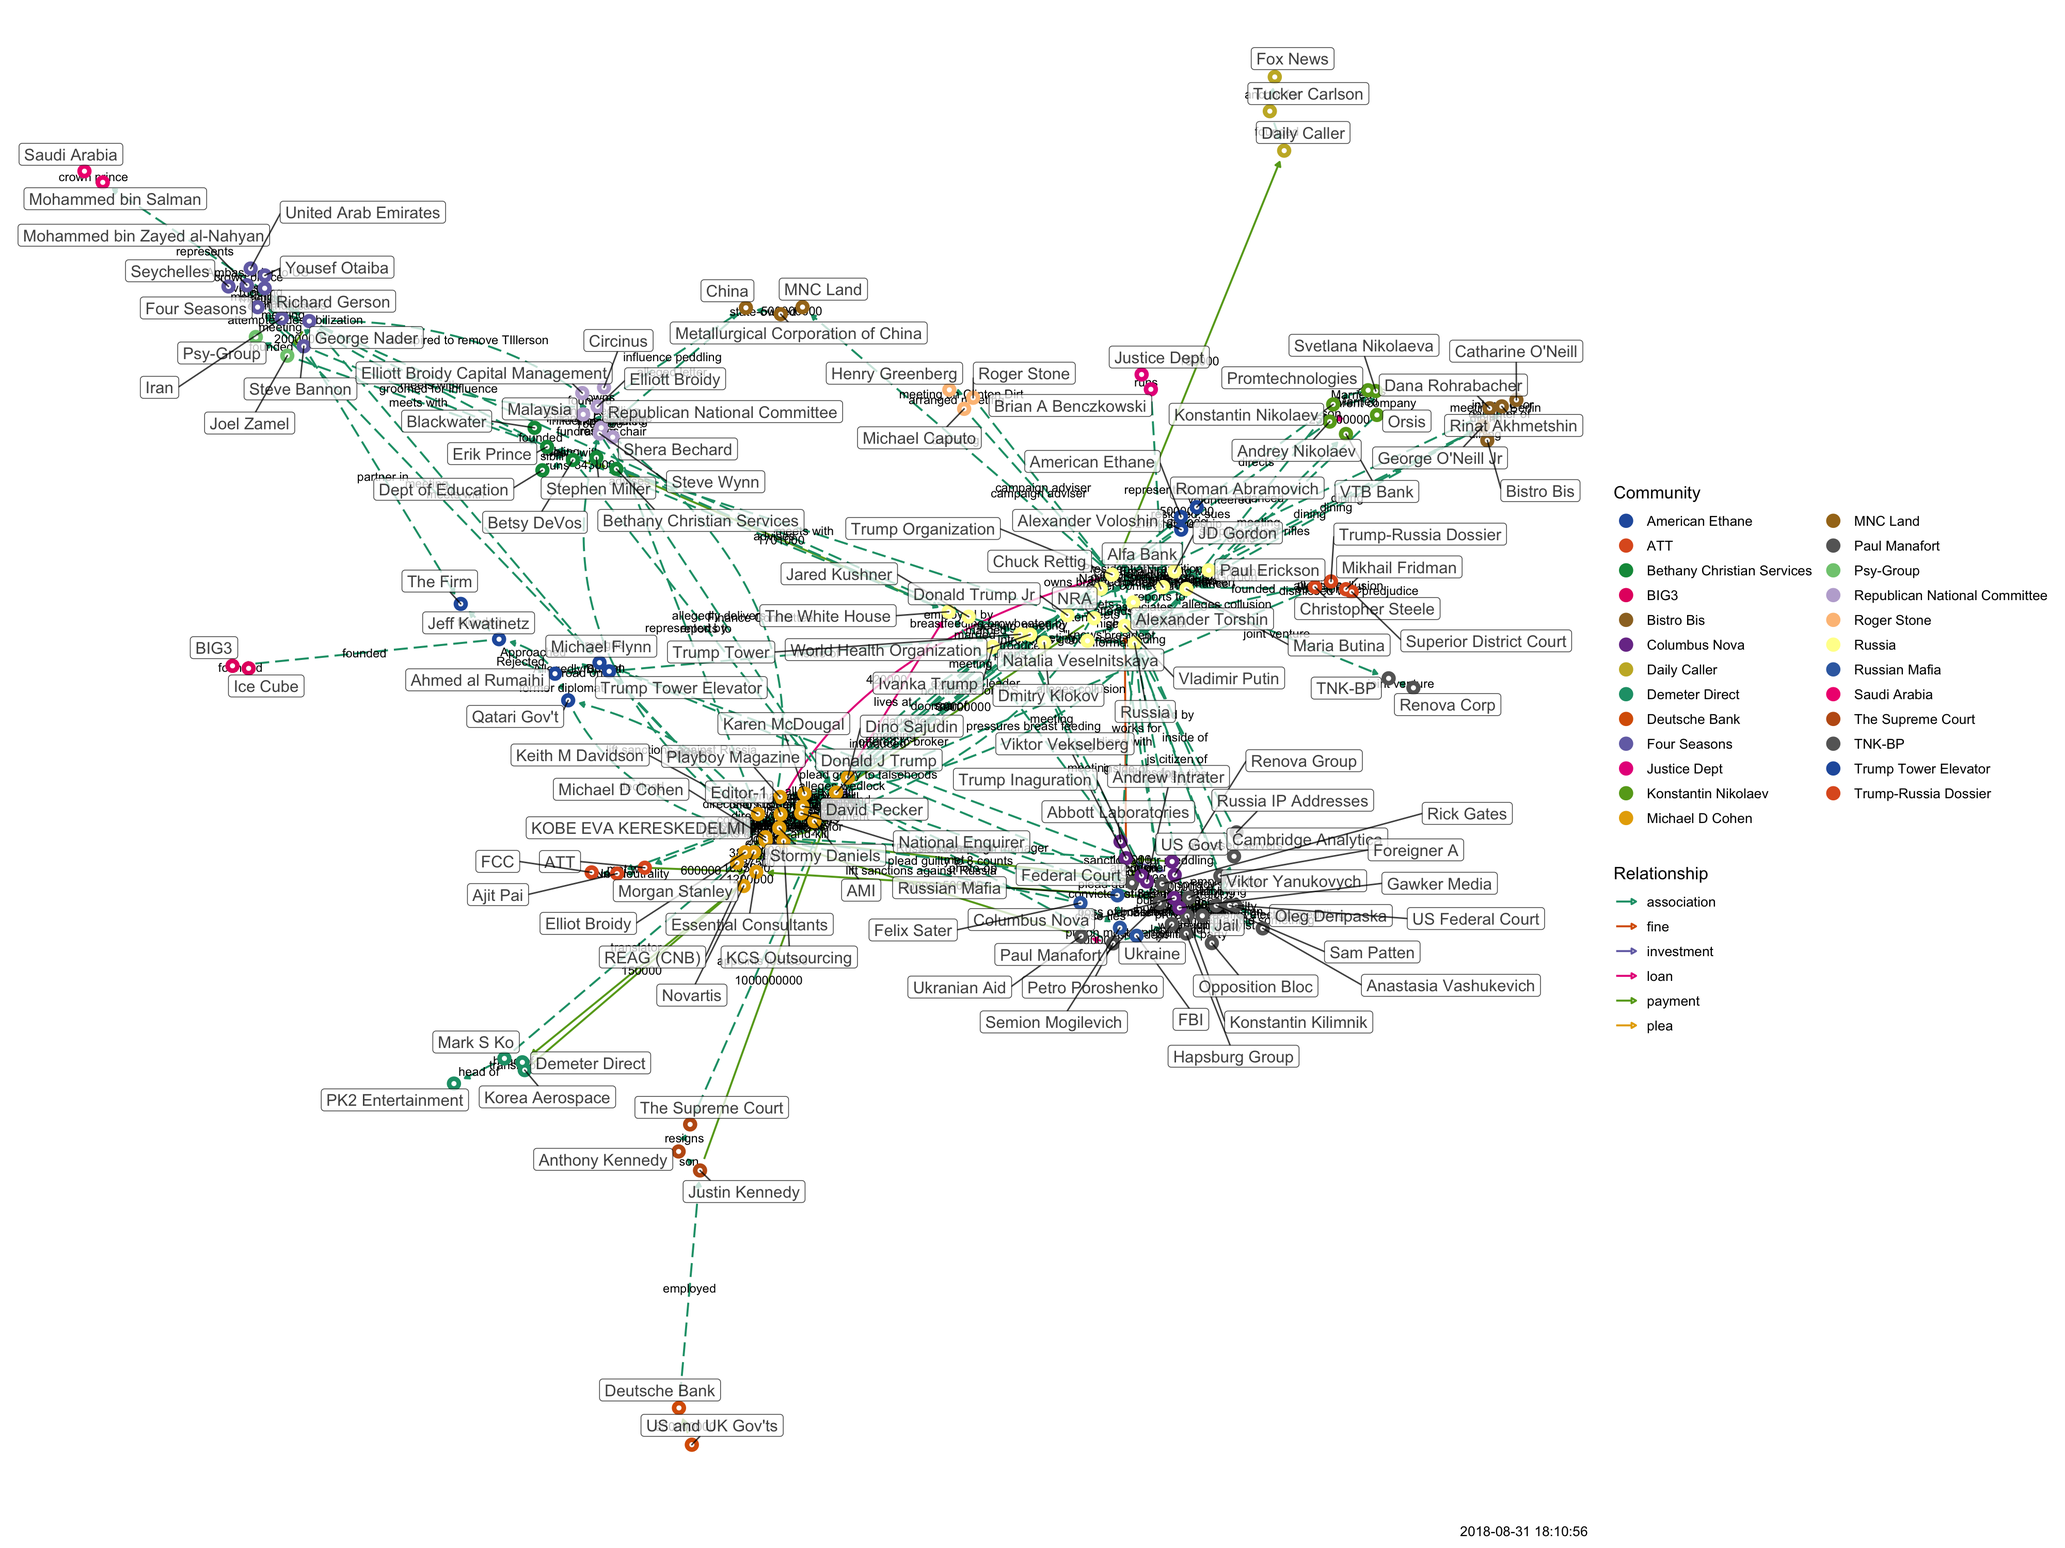
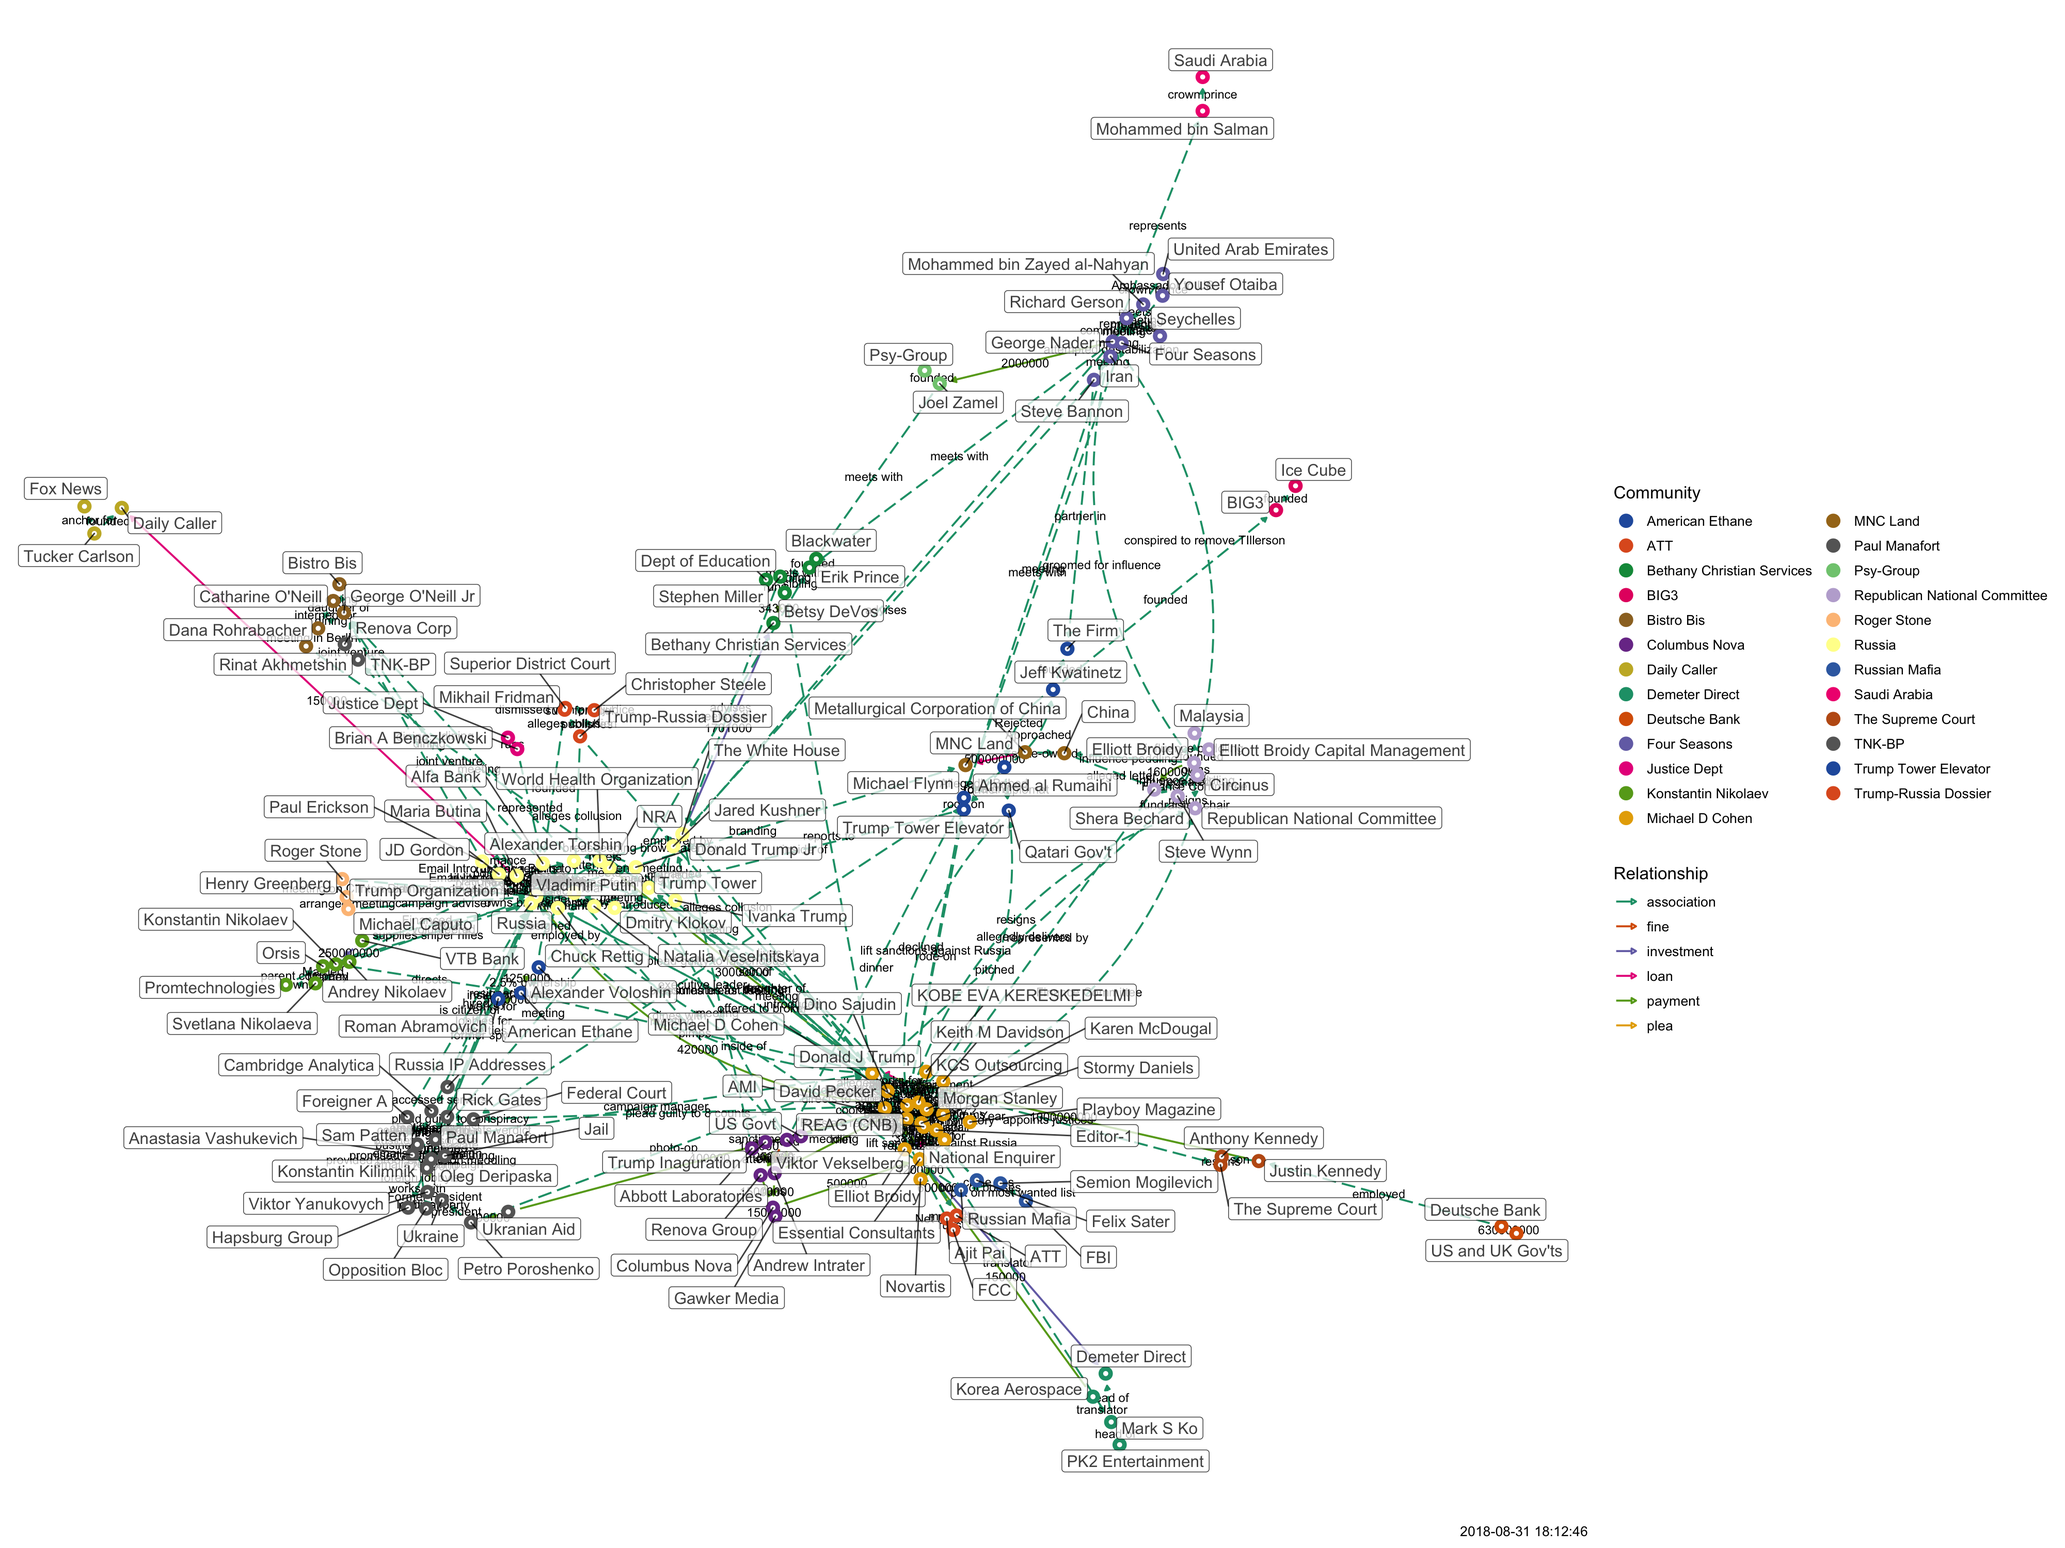
updated

diff --git a/docs/tangled-d3.html b/docs/tangled-d3.html
@@ -1143,11 +1143,11 @@ return function(){for(var n=0,e=0;e<t;++e)n+=Math.random();return n}},um=functio
 </head>
 <body style="background-color: white;">
 <div id="htmlwidget_container">
-<div id="htmlwidget-960d5fedc73d73c93c30" class="forceNetwork html-widget" style="width:960px;height:500px;">
+<div id="htmlwidget-10fe5aaa14eadc9a0b8a" class="forceNetwork html-widget" style="width:960px;height:500px;">
 
 </div>
 </div>
-<script type="application/json" data-for="htmlwidget-960d5fedc73d73c93c30">{"x":{"links":{"source":[0,1,2,2,3,4,5,6,6,7,8,9,9,9,10,11,12,13,14,15,16,17,18,19,20,21,21,22,23,24,25,25,26,27,28,29,16,3,3,30,3,30,30,3,31,16,32,30,8,8,8,16,33,33,32,16,16,34,34,34,34,33,16,35,36,36,37,38,37,37,39,36,36,40,40,40,4,39,8,10,10,10,41,41,42,42,16,43,44,44,10,45,46,47,10,10,48,49,47,50,46,10,10,45,47,5,5,5,25,15,20,20,16,30,30,51,52,52,52,52,10,49,35,39,53,53,42,42,54,54,32,32,16,55,56,57,56,58,59,58,56,58,58,45,41,60,61,61,28,19,58,56,33,62,16,63,11,64,33,0,65,66,33,1,1,67,23,68,68,59,69,25,70,71,71,72,33,72,72,73,72,74,73,45,45,73,73,73,72,75,74,76,76,60,77,8,78,55,79,79,79,74,74,79,80,80,81,81,82,83,83,80,84,66,85,86,85,87,8,8,8,88,88,88,89,90,19,30,33,91,92,92,92,33,93,94,95,16,16,96,93,2,16,33,93,33,93,96,2,97,97,32,94,96,98,98,99,100,101,98,16,102,103,69,102,104,105,105,105,106,107,58,107,108,107,109,109,107,92,35,16,107],"target":[110,67,97,93,110,9,111,9,112,21,78,113,114,32,46,33,16,16,9,115,7,9,33,58,26,9,32,6,67,111,116,16,16,64,58,80,9,6,16,22,30,3,110,110,30,33,55,59,117,118,119,114,24,32,33,25,117,113,120,16,14,25,51,51,51,37,36,121,122,121,122,43,35,4,33,123,40,24,10,8,39,41,24,42,41,33,43,16,116,124,47,47,47,125,49,48,126,127,50,24,128,35,129,33,5,47,130,33,115,89,33,131,132,132,16,132,133,49,10,134,134,134,134,134,134,127,16,54,16,59,55,16,55,16,57,131,58,66,66,33,66,135,132,132,132,132,132,66,131,66,56,19,62,25,117,136,63,11,136,24,24,65,67,59,59,1,67,69,137,69,25,69,25,70,66,33,72,66,73,66,74,72,45,73,18,18,66,77,77,77,77,77,75,75,138,78,55,16,72,25,25,72,79,72,72,81,80,84,66,80,25,67,82,29,86,87,25,25,89,139,88,117,33,117,88,19,90,35,4,58,58,25,58,16,94,95,2,94,96,2,2,16,2,16,33,93,140,33,97,33,132,94,16,16,33,100,100,101,66,16,35,69,141,141,104,105,33,59,102,102,58,107,108,131,109,107,66,70,91,91,91,142],"colour":["red","blue","red","red","red","red","red","red","blue","red","red","red","red","red","red","blue","red","red","red","blue","red","red","blue","blue","red","red","red","blue","blue","red","red","red","red","blue","red","blue","blue","blue","blue","blue","blue","blue","blue","blue","blue","blue","blue","blue","blue","blue","blue","blue","blue","blue","blue","blue","blue","blue","blue","blue","blue","blue","blue","blue","blue","blue","blue","blue","blue","blue","blue","blue","blue","blue","blue","blue","blue","blue","blue","blue","blue","blue","blue","blue","blue","blue","blue","blue","blue","blue","blue","blue","blue","blue","blue","blue","blue","blue","blue","blue","blue","blue","blue","blue","blue","blue","blue","blue","blue","blue","blue","blue","blue","blue","blue","blue","blue","blue","blue","blue","blue","blue","blue","blue","blue","blue","blue","blue","blue","blue","blue","blue","blue","blue","blue","blue","blue","blue","blue","blue","blue","blue","blue","blue","blue","blue","blue","blue","blue","blue","blue","blue","blue","blue","blue","blue","blue","blue","blue","blue","blue","blue","blue","blue","blue","blue","blue","blue","blue","blue","blue","blue","blue","blue","blue","blue","blue","blue","blue","blue","blue","blue","blue","blue","blue","blue","blue","blue","blue","blue","blue","blue","blue","blue","blue","blue","blue","blue","blue","blue","blue","blue","blue","blue","blue","blue","blue","blue","blue","blue","blue","blue","blue","blue","blue","blue","blue","blue","blue","blue","blue","blue","blue","blue","blue","blue","blue","blue","blue","blue","blue","blue","blue","blue","blue","blue","blue","blue","blue","blue","blue","blue","blue","blue","blue","blue","blue","blue","blue","blue","blue","blue","blue","blue","blue","blue","blue","blue","blue","blue","blue","blue","blue","blue","blue","blue","blue","blue","blue","blue","blue","blue","blue","blue","blue","blue","blue","blue","blue","blue","blue","blue"]},"nodes":{"name":["Abbott Laboratories","Alexander Voloshin","AMI","Andrew Intrater","ATT","Betsy DeVos","Columbus Nova","Elliot Broidy","Elliott Broidy","Essential Consultants","George Nader","Justin Kennedy","KCS Outsourcing","KOBE EVA KERESKEDELMI","Korea Aerospace","Metallurgical Corporation of China","Michael D Cohen","Novartis","NRA","Oleg Deripaska","Petro Poroshenko","REAG (CNB)","Renova Group","Roman Abramovich","The White House","Trump Organization","Ukranian Aid","US and UK Gov'ts","Viktor Yanukovych","VTB Bank","Viktor Vekselberg","US Govt","Stormy Daniels","Donald J Trump","Mark S Ko","Michael Flynn","Ahmed al Rumaihi","Jeff Kwatinetz","Ice Cube","Steve Bannon","Ajit Pai","Jared Kushner","Ivanka Trump","Qatari Gov't","Tucker Carlson","Donald Trump Jr","Joel Zamel","Erik Prince","Mohammed bin Salman","Mohammed bin Zayed al-Nahyan","Stephen Miller","Trump Tower Elevator","Richard Gerson","Yousef Otaiba","Dmitry Klokov","Keith M Davidson","Konstantin Kilimnik","Hapsburg Group","Paul Manafort","Vladimir Putin","Rinat Akhmetshin","Natalia Veselnitskaya","Chuck Rettig","Anthony Kennedy","Deutsche Bank","World Health Organization","Russia","American Ethane","Brian A Benczkowski","Alfa Bank","Cambridge Analytica","Russia IP Addresses","Maria Butina","Alexander Torshin","Paul Erickson","Dana Rohrabacher","Catharine O'Neill","George O'Neill Jr","Shera Bechard","JD Gordon","Konstantin Nikolaev","Svetlana Nikolaeva","Orsis","Andrey Nikolaev","Promtechnologies","Michael Caputo","Henry Greenberg","Roger Stone","Steve Wynn","China","Anastasia Vashukevich","Federal Court","Rick Gates","Karen McDougal","Editor-1","National Enquirer","David Pecker","Dino Sajudin","Felix Sater","FBI","Semion Mogilevich","Russian Mafia","Mikhail Fridman","Renova Corp","Christopher Steele","Trump-Russia Dossier","Superior District Court","Sam Patten","Opposition Bloc","Foreigner A","Trump Inaguration","Bethany Christian Services","Gawker Media","Demeter Direct","Morgan Stanley","MNC Land","Daily Caller","Republican National Committee","Elliott Broidy Capital Management","Circinus","PK2 Entertainment","BIG3","The Firm","FCC","Fox News","Blackwater","Saudi Arabia","United Arab Emirates","Psy-Group","Iran","Dept of Education","Ukraine","Trump Tower","Seychelles","Four Seasons","Jail","The Supreme Court","Justice Dept","Bistro Bis","Malaysia","Playboy Magazine","TNK-BP","US Federal Court"],"group":["5","18","2","5","15","9","5","2","6","2","4","16","2","2","12","17","2","2","3","1","1","2","5","18","3","3","1","25","1","7","5","5","2","2","12","8","8","8","24","4","15","3","3","8","14","3","20","9","21","4","9","8","4","4","3","2","1","1","1","3","10","3","3","16","25","3","3","18","22","3","1","1","3","3","3","10","10","10","6","3","7","7","7","7","7","19","19","19","6","17","1","1","1","2","2","2","2","2","11","11","11","11","13","23","13","13","13","1","1","1","5","9","5","12","2","17","14","6","6","6","12","24","8","15","14","9","21","4","20","4","9","1","3","4","4","1","16","22","10","6","2","23","1"]},"options":{"NodeID":"name","Group":"group","colourScale":"d3.scaleOrdinal(d3.schemeCategory20);","fontSize":20,"fontFamily":"serif","clickTextSize":50,"linkDistance":50,"linkWidth":"function(d) { return Math.sqrt(d.value); }","charge":-100,"opacity":1,"zoom":true,"legend":false,"arrows":false,"nodesize":false,"radiusCalculation":" Math.sqrt(d.nodesize)+6","bounded":false,"opacityNoHover":1,"clickAction":null}},"evals":[],"jsHooks":[]}</script>
-<script type="application/htmlwidget-sizing" data-for="htmlwidget-960d5fedc73d73c93c30">{"viewer":{"width":450,"height":350,"padding":10,"fill":true},"browser":{"width":960,"height":500,"padding":10,"fill":true}}</script>
+<script type="application/json" data-for="htmlwidget-10fe5aaa14eadc9a0b8a">{"x":{"links":{"source":[0,1,2,2,3,4,5,6,6,7,8,9,9,9,10,11,12,13,14,15,16,17,18,19,20,21,21,22,23,24,25,25,26,27,28,29,16,3,3,30,3,30,30,3,31,16,32,30,8,8,8,16,33,33,32,16,16,34,34,34,34,33,16,35,36,36,37,38,37,37,39,36,36,40,40,40,4,39,8,10,10,10,41,41,42,42,16,43,44,44,10,45,46,47,10,10,48,49,47,50,46,10,10,45,47,5,5,5,25,15,20,20,16,30,30,51,52,52,52,52,10,49,35,39,53,53,42,42,54,54,32,32,16,55,56,57,56,58,59,58,56,58,58,45,41,60,61,61,28,19,58,56,33,62,16,63,11,64,33,0,65,66,33,1,1,67,23,68,68,59,69,25,70,71,71,72,33,72,72,73,72,74,73,45,45,73,73,73,72,75,74,76,76,60,77,8,78,55,79,79,79,74,74,79,80,80,81,81,82,83,83,80,84,66,85,86,85,87,8,8,8,88,88,88,89,90,19,30,33,91,92,92,92,33,93,94,95,16,16,96,93,2,16,33,93,33,93,96,2,97,97,32,94,96,98,98,99,100,101,98,16,102,103,69,102,104,105,105,105,106,107,58,107,108,107,109,109,107,92,35,16,107],"target":[110,67,97,93,110,9,111,9,112,21,78,113,114,32,46,33,16,16,9,115,7,9,33,58,26,9,32,6,67,111,116,16,16,64,58,80,9,6,16,22,30,3,110,110,30,33,55,59,117,118,119,114,24,32,33,25,117,113,120,16,14,25,51,51,51,37,36,121,122,121,122,43,35,4,33,123,40,24,10,8,39,41,24,42,41,33,43,16,116,124,47,47,47,125,49,48,126,127,50,24,128,35,129,33,5,47,130,33,115,89,33,131,132,132,16,132,133,49,10,134,134,134,134,134,134,127,16,54,16,59,55,16,55,16,57,131,58,66,66,33,66,135,132,132,132,132,132,66,131,66,56,19,62,25,117,136,63,11,136,24,24,65,67,59,59,1,67,69,137,69,25,69,25,70,66,33,72,66,73,66,74,72,45,73,18,18,66,77,77,77,77,77,75,75,138,78,55,16,72,25,25,72,79,72,72,81,80,84,66,80,25,67,82,29,86,87,25,25,89,139,88,117,33,117,88,19,90,35,4,58,58,25,58,16,94,95,2,94,96,2,2,16,2,16,33,93,140,33,97,33,132,94,16,16,33,100,100,101,66,16,35,69,141,141,104,105,33,59,102,102,58,107,108,131,109,107,66,70,91,91,91,91],"colour":["red","blue","red","red","red","red","red","red","blue","red","red","red","red","red","red","blue","red","red","red","blue","red","red","blue","blue","red","red","red","blue","blue","red","red","red","red","blue","red","blue","blue","blue","blue","blue","blue","blue","blue","blue","blue","blue","blue","blue","blue","blue","blue","blue","blue","blue","blue","blue","blue","blue","blue","blue","blue","blue","blue","blue","blue","blue","blue","blue","blue","blue","blue","blue","blue","blue","blue","blue","blue","blue","blue","blue","blue","blue","blue","blue","blue","blue","blue","blue","blue","blue","blue","blue","blue","blue","blue","blue","blue","blue","blue","blue","blue","blue","blue","blue","blue","blue","blue","blue","blue","blue","blue","blue","blue","blue","blue","blue","blue","blue","blue","blue","blue","blue","blue","blue","blue","blue","blue","blue","blue","blue","blue","blue","blue","blue","blue","blue","blue","blue","blue","blue","blue","blue","blue","blue","blue","blue","blue","blue","blue","blue","blue","blue","blue","blue","blue","blue","blue","blue","blue","blue","blue","blue","blue","blue","blue","blue","blue","blue","blue","blue","blue","blue","blue","blue","blue","blue","blue","blue","blue","blue","blue","blue","blue","blue","blue","blue","blue","blue","blue","blue","blue","blue","blue","blue","blue","blue","blue","blue","blue","blue","blue","blue","blue","blue","blue","blue","blue","blue","blue","blue","blue","blue","blue","blue","blue","blue","blue","blue","blue","blue","blue","blue","blue","blue","blue","blue","blue","blue","blue","blue","blue","blue","blue","blue","blue","blue","blue","blue","blue","blue","blue","blue","blue","blue","blue","blue","blue","blue","blue","blue","blue","blue","blue","blue","blue","blue","blue","blue","blue","blue","blue","blue","blue","blue","blue","blue","blue","blue","blue","blue","blue","blue","blue","blue","blue","blue","blue","blue","blue","blue","blue","blue"]},"nodes":{"name":["Abbott Laboratories","Alexander Voloshin","AMI","Andrew Intrater","ATT","Betsy DeVos","Columbus Nova","Elliot Broidy","Elliott Broidy","Essential Consultants","George Nader","Justin Kennedy","KCS Outsourcing","KOBE EVA KERESKEDELMI","Korea Aerospace","Metallurgical Corporation of China","Michael D Cohen","Novartis","NRA","Oleg Deripaska","Petro Poroshenko","REAG (CNB)","Renova Group","Roman Abramovich","The White House","Trump Organization","Ukranian Aid","US and UK Gov'ts","Viktor Yanukovych","VTB Bank","Viktor Vekselberg","US Govt","Stormy Daniels","Donald J Trump","Mark S Ko","Michael Flynn","Ahmed al Rumaihi","Jeff Kwatinetz","Ice Cube","Steve Bannon","Ajit Pai","Jared Kushner","Ivanka Trump","Qatari Gov't","Tucker Carlson","Donald Trump Jr","Joel Zamel","Erik Prince","Mohammed bin Salman","Mohammed bin Zayed al-Nahyan","Stephen Miller","Trump Tower Elevator","Richard Gerson","Yousef Otaiba","Dmitry Klokov","Keith M Davidson","Konstantin Kilimnik","Hapsburg Group","Paul Manafort","Vladimir Putin","Rinat Akhmetshin","Natalia Veselnitskaya","Chuck Rettig","Anthony Kennedy","Deutsche Bank","World Health Organization","Russia","American Ethane","Brian A Benczkowski","Alfa Bank","Cambridge Analytica","Russia IP Addresses","Maria Butina","Alexander Torshin","Paul Erickson","Dana Rohrabacher","Catharine O'Neill","George O'Neill Jr","Shera Bechard","JD Gordon","Konstantin Nikolaev","Svetlana Nikolaeva","Orsis","Andrey Nikolaev","Promtechnologies","Michael Caputo","Henry Greenberg","Roger Stone","Steve Wynn","China","Anastasia Vashukevich","Federal Court","Rick Gates","Karen McDougal","Editor-1","National Enquirer","David Pecker","Dino Sajudin","Felix Sater","FBI","Semion Mogilevich","Russian Mafia","Mikhail Fridman","Renova Corp","Christopher Steele","Trump-Russia Dossier","Superior District Court","Sam Patten","Opposition Bloc","Foreigner A","Trump Inaguration","Bethany Christian Services","Gawker Media","Demeter Direct","Morgan Stanley","MNC Land","Daily Caller","Republican National Committee","Elliott Broidy Capital Management","Circinus","PK2 Entertainment","BIG3","The Firm","FCC","Fox News","Blackwater","Saudi Arabia","United Arab Emirates","Psy-Group","Iran","Dept of Education","Ukraine","Trump Tower","Seychelles","Four Seasons","Jail","The Supreme Court","Justice Dept","Bistro Bis","Malaysia","Playboy Magazine","TNK-BP"],"group":["5","18","1","5","15","9","5","1","6","1","4","16","1","1","12","17","1","1","2","3","3","1","5","18","2","2","3","25","3","7","5","5","1","1","12","8","8","8","24","4","15","2","2","8","14","2","20","9","21","4","9","8","4","4","2","1","3","3","3","2","10","2","2","16","25","2","2","18","22","2","3","3","2","2","2","10","10","10","6","2","7","7","7","7","7","19","19","19","6","17","3","3","3","1","1","1","1","1","11","11","11","11","13","23","13","13","13","3","3","3","5","9","5","12","1","17","14","6","6","6","12","24","8","15","14","9","21","4","20","4","9","3","2","4","4","3","16","22","10","6","1","23"]},"options":{"NodeID":"name","Group":"group","colourScale":"d3.scaleOrdinal(d3.schemeCategory20);","fontSize":20,"fontFamily":"serif","clickTextSize":50,"linkDistance":50,"linkWidth":"function(d) { return Math.sqrt(d.value); }","charge":-100,"opacity":1,"zoom":true,"legend":false,"arrows":false,"nodesize":false,"radiusCalculation":" Math.sqrt(d.nodesize)+6","bounded":false,"opacityNoHover":1,"clickAction":null}},"evals":[],"jsHooks":[]}</script>
+<script type="application/htmlwidget-sizing" data-for="htmlwidget-10fe5aaa14eadc9a0b8a">{"viewer":{"width":450,"height":350,"padding":10,"fill":true},"browser":{"width":960,"height":500,"padding":10,"fill":true}}</script>
 </body>
 </html>
